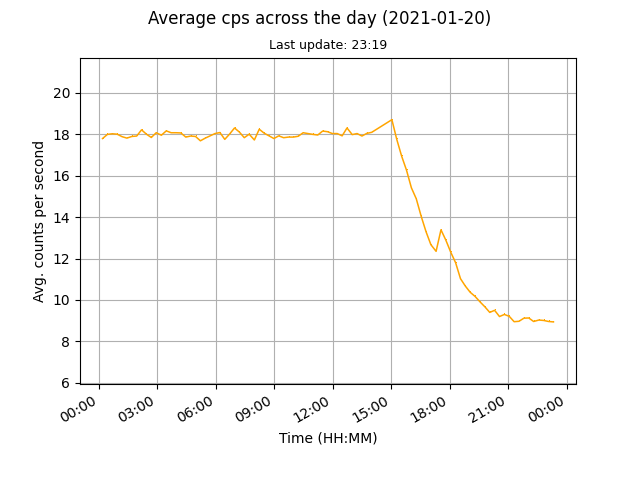
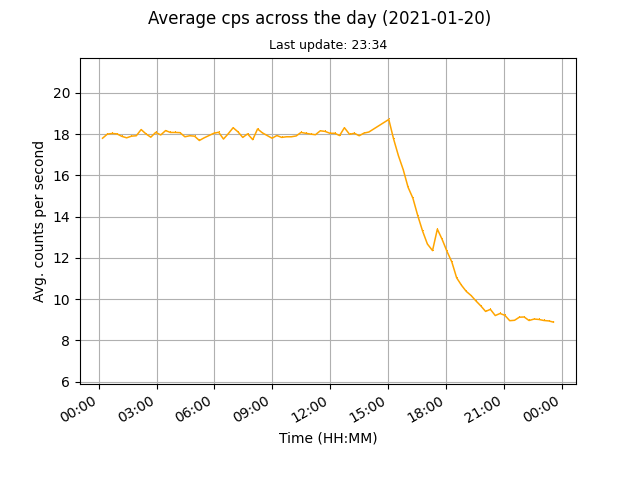
auto data update

diff --git a/docs/index.html b/docs/index.html
@@ -45,8 +45,8 @@
 	
 	<br>
 	
-	<p>Current counts per second (cps): 8.94</p>
-	<p>Last update: 2021-01-20, 23:19</p>
+	<p>Current counts per second (cps): 8.88</p>
+	<p>Last update: 2021-01-20, 23:34</p>
 
 	<p><a href="images/monthly.png"><img src="images/monthly.png" alt="Mothly avg cps data"></a><a href="images/daily.png"><img src="images/daily.png" alt="Daily avg cps data"></a></p>
 	
